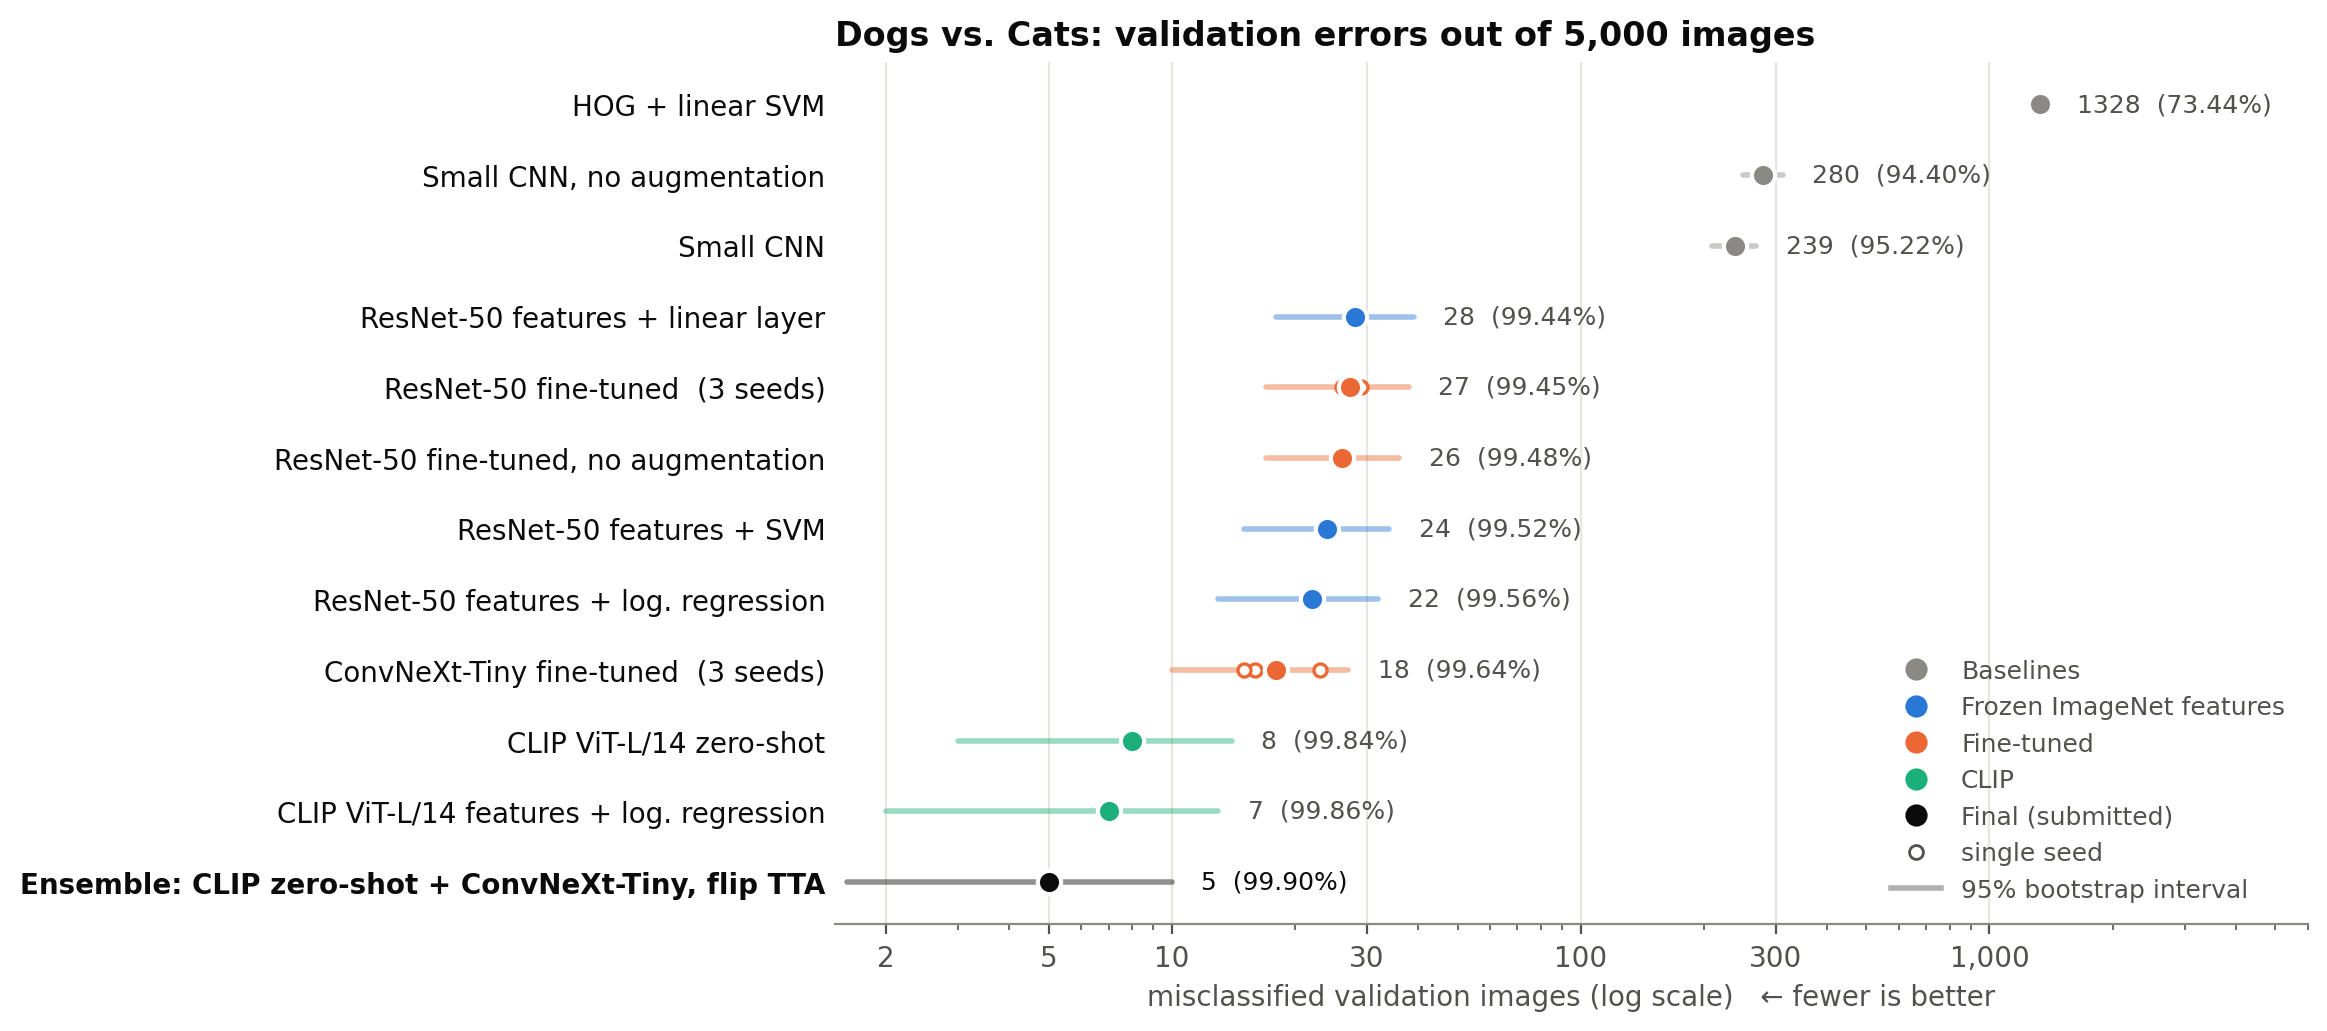
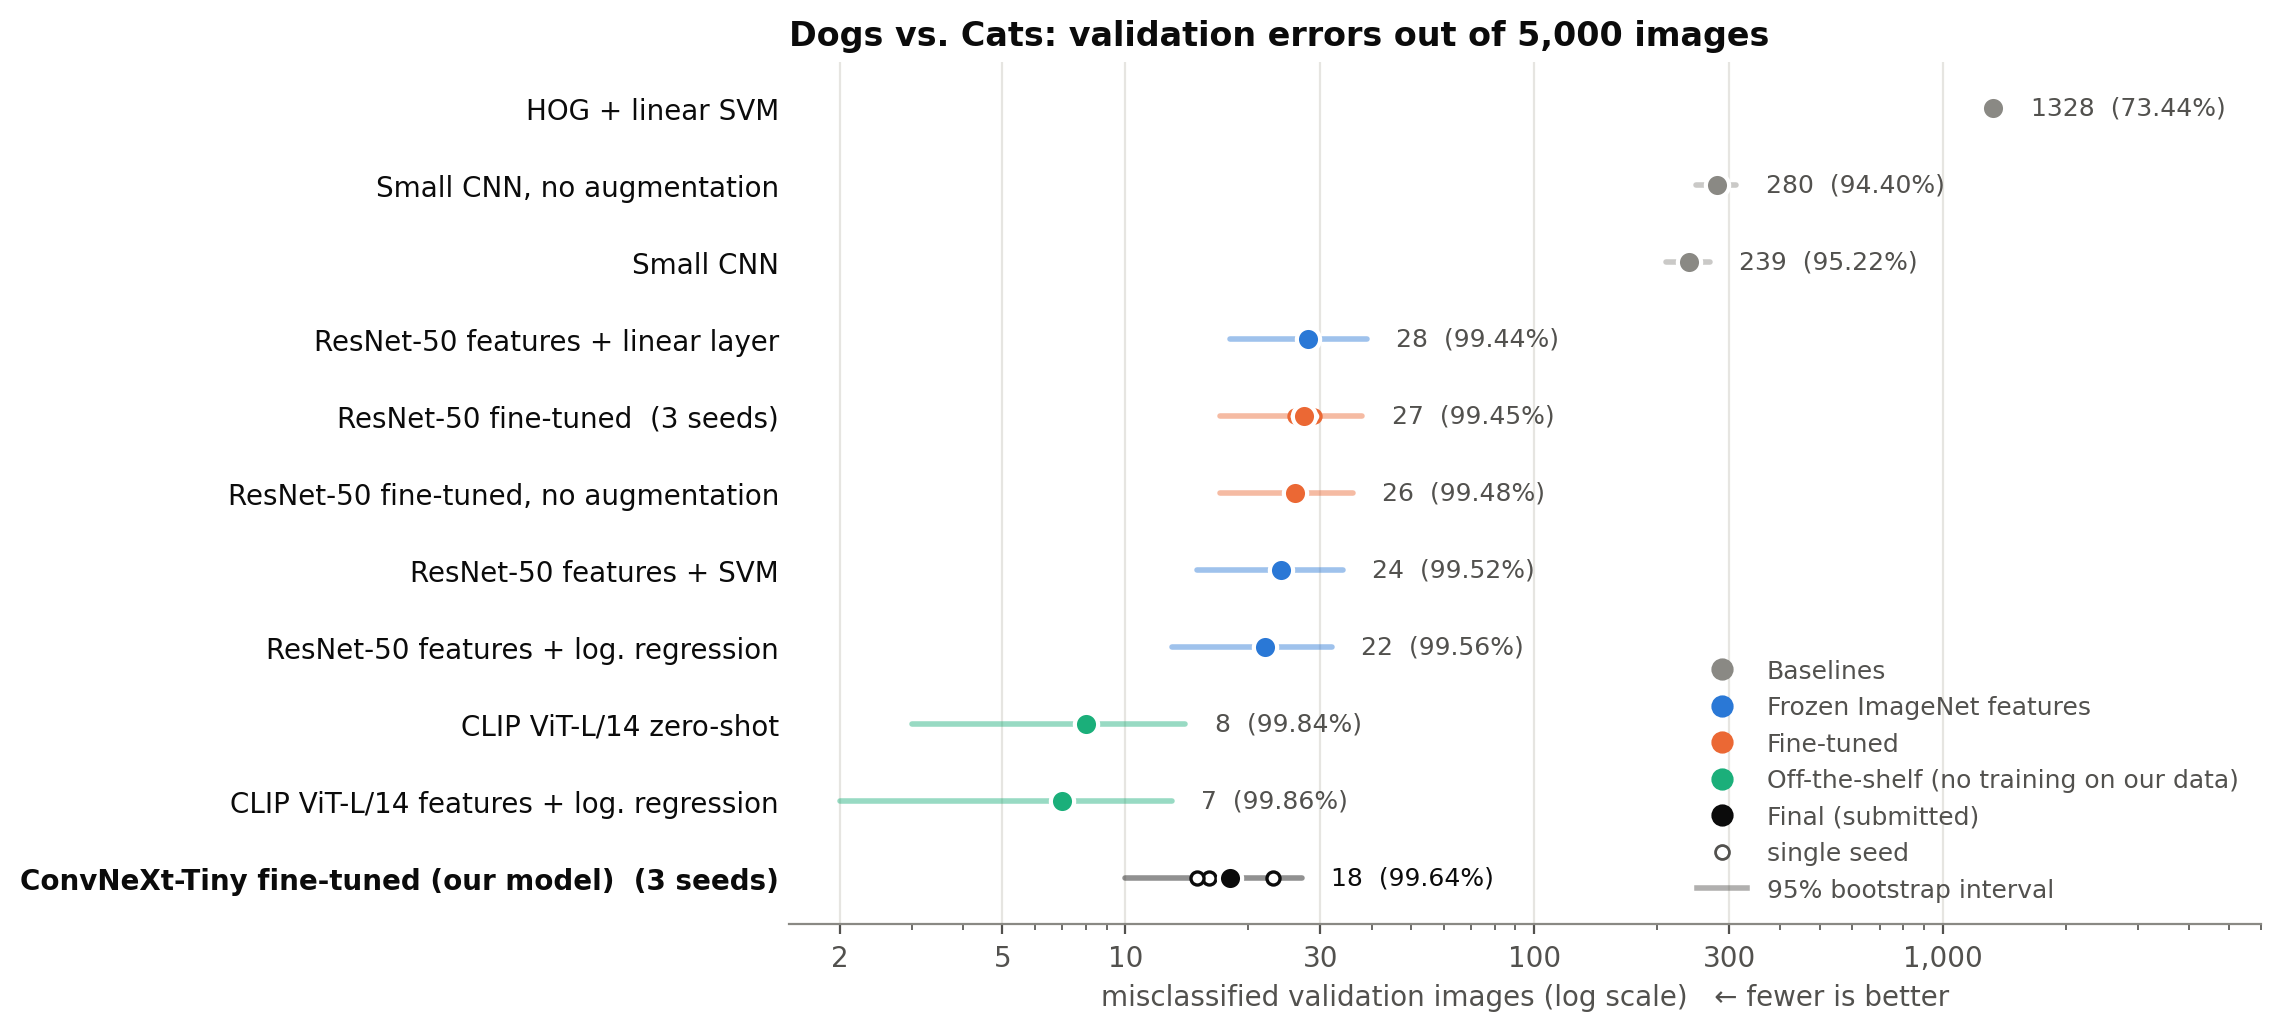
Redraw error figures for ConvNeXt-Tiny

diff --git a/scripts/make_readme_figures.py b/scripts/make_readme_figures.py
@@ -42,6 +42,8 @@ plt.rcParams.update({
 
 N_VAL = 5000
 
+OTS = "Off-the-shelf (no training on our data)"
+
 # display name, family
 DOGCAT = {
     "M0_hog_svm": ("HOG + linear SVM", "Baselines"),
@@ -52,15 +54,15 @@ DOGCAT = {
     "M2a_resnet50_logreg": ("ResNet-50 features + log. regression", "Frozen ImageNet features"),
     "M3_resnet50_ft_noaug": ("ResNet-50 fine-tuned, no augmentation", "Fine-tuned"),
     "M3_resnet50_ft": ("ResNet-50 fine-tuned", "Fine-tuned"),
-    "M4_convnext_tiny_ft": ("ConvNeXt-Tiny fine-tuned", "Fine-tuned"),
-    "M5a_clip_vitl14_zeroshot": ("CLIP ViT-L/14 zero-shot", "CLIP"),
-    "M5b_clip_vitl14_logreg": ("CLIP ViT-L/14 features + log. regression", "CLIP"),
+    "M4_convnext_tiny_ft": ("ConvNeXt-Tiny fine-tuned (our model)", "Final (submitted)"),
+    "M5a_clip_vitl14_zeroshot": ("CLIP ViT-L/14 zero-shot", OTS),
+    "M5b_clip_vitl14_logreg": ("CLIP ViT-L/14 features + log. regression", OTS),
 }
 FAMILY_COLOR = {
     "Baselines": MUTED,
     "Frozen ImageNet features": BLUE,
     "Fine-tuned": ORANGE,
-    "CLIP": AQUA,
+    OTS: AQUA,
     "Final (submitted)": INK,
 }
 
@@ -85,7 +87,6 @@ def err_interval(n_wrong, n=N_VAL, reps=20000, seed=0):
 
 def dogcat_figure(root, out):
     df = pd.read_csv(root / "results/dogcat/comparison.csv")
-    final = json.loads((root / "results/dogcat/final_config.json").read_text())
 
     rows = []
     for _, r in df.iterrows():
@@ -97,12 +98,7 @@ def dogcat_figure(root, out):
         label = name + (f"  ({len(seeds)} seeds)" if len(seeds) > 1 else "")
         rows.append(dict(name=label, fam=fam, mean=np.mean(wrong), seeds=wrong,
                          ci=err_interval(round(np.mean(wrong)))))
-    members = " + ".join(DOGCAT[m][0].replace(" fine-tuned", "").replace("CLIP ViT-L/14 ", "CLIP ")
-                         for m in final["members"])
-    rows.append(dict(name=f"Ensemble: {members}" + (", flip TTA" if final["tta"] else ""),
-                     fam="Final (submitted)", mean=final["n_wrong"], seeds=[final["n_wrong"]],
-                     ci=err_interval(final["n_wrong"])))
-    rows.sort(key=lambda d: d["mean"])
+    rows.sort(key=lambda d: (d["fam"] != "Final (submitted)", d["mean"]))  # list is drawn bottom-up: our model last row
 
     fig, ax = plt.subplots(figsize=(9.5, 5.6))
     y = np.arange(len(rows))

diff --git a/scripts/hard_cases.py b/scripts/hard_cases.py
@@ -1,4 +1,4 @@
-"""Part e: val images the scratch CNN gets confidently wrong but the final model gets right.
+"""Part e: val images the scratch CNN gets confidently wrong but ConvNeXt-Tiny (final model) gets right.
 Prints the candidate list; the 6 images in the figure were picked by eye from the top 30."""
 import json
 import os
@@ -41,7 +41,7 @@ def main():
     d["cnn_wrong"] = np.where(d.label == 1, 1 - d.cnn, d.cnn)
     d["hog_wrong"] = np.where(d.label == 1, 1 - d.hog, d.hog)
     right = (d.final > 0.5) == (d.label == 1)
-    print(f"final right, CNN wrong: {(right & (d.cnn_wrong > 0.5)).sum()}, "
+    print(f"ConvNeXt-Tiny right, CNN wrong: {(right & (d.cnn_wrong > 0.5)).sum()}, "
           f"HOG wrong: {(right & (d.hog_wrong > 0.5)).sum()}")
     cand = d[right & (d.cnn_wrong > 0.5)].sort_values("cnn_wrong", ascending=False)
     print(cand.head(30)[["label", "cnn", "hog", "final"]].round(3).to_string())
@@ -50,10 +50,10 @@ def main():
     for ax, (path, kind) in zip(axes.flat, PICKED):
         r = d.loc[path]
         ax.imshow(Image.open(os.path.join(CACHE_ROOT, path)).convert("RGB"))
-        ax.set_title(f"{kind}\ntrue: {'dog' if r.label else 'cat'}   P(dog): SimpleCNN {r.cnn:.2f}, "
-                     f"final {r.final:.2f}", fontsize=10.5)
+        ax.set_title(f"{kind} (true: {'dog' if r.label else 'cat'})\nP(dog): SimpleCNN {r.cnn:.2f}\n"
+                     f"ConvNeXt-Tiny {r.final:.2f}", fontsize=10.5)
         ax.axis("off")
-    fig.suptitle("Val images the scratch CNN gets confidently wrong and the final model gets right",
+    fig.suptitle("Val images the scratch CNN gets confidently wrong and ConvNeXt-Tiny gets right",
                  fontsize=13)
     plt.tight_layout()
     plt.savefig(os.path.join(DOGCAT_RESULTS, "figures", "fig_hard_cases.png"), dpi=200)

diff --git a/scripts/gradcam.py b/scripts/gradcam.py
@@ -18,6 +18,7 @@ from src.models import build_model, gradcam_layer
 from src.utils import CACHE_ROOT, DOGCAT_RESULTS, PROJECT_ROOT, Timer
 
 MODELS = [("resnet50", "M3_resnet50_ft_s42"), ("convnext_tiny", "M4_convnext_tiny_ft_s42")]
+NAMES = {"resnet50": "ResNet-50", "convnext_tiny": "ConvNeXt-Tiny"}
 
 
 class GradCAM:
@@ -76,7 +77,7 @@ def main():
             cam, prob, pred = cams[(arch, p)]
             ax.imshow(img)
             ax.imshow(cam, cmap="jet", alpha=0.45)
-            ax.set_title(f"{arch}: pred {'dog' if pred else 'cat'}, P(dog)={prob[1]:.3f}", fontsize=10)
+            ax.set_title(f"{NAMES[arch]}: pred {'dog' if pred else 'cat'}, P(dog)={prob[1]:.3f}", fontsize=10)
         for ax in row:
             ax.axis("off")
     fig.suptitle(args.title, fontsize=13)
